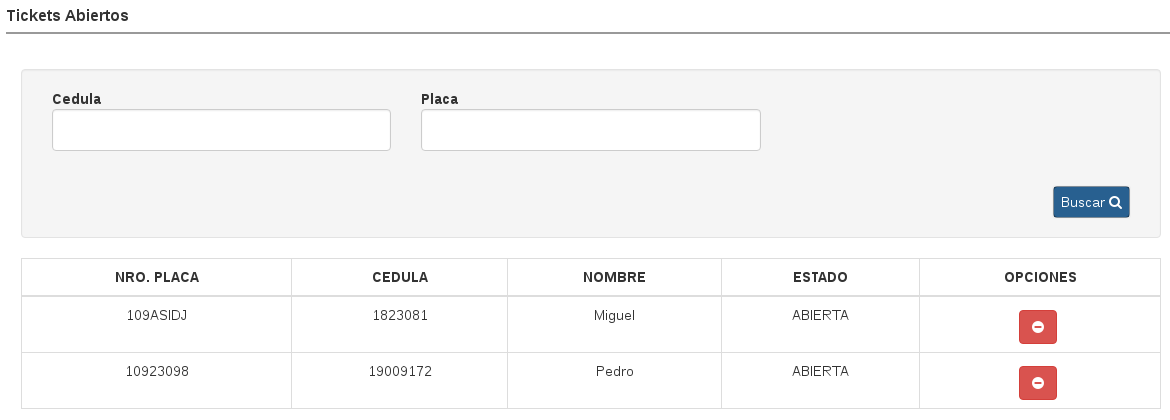
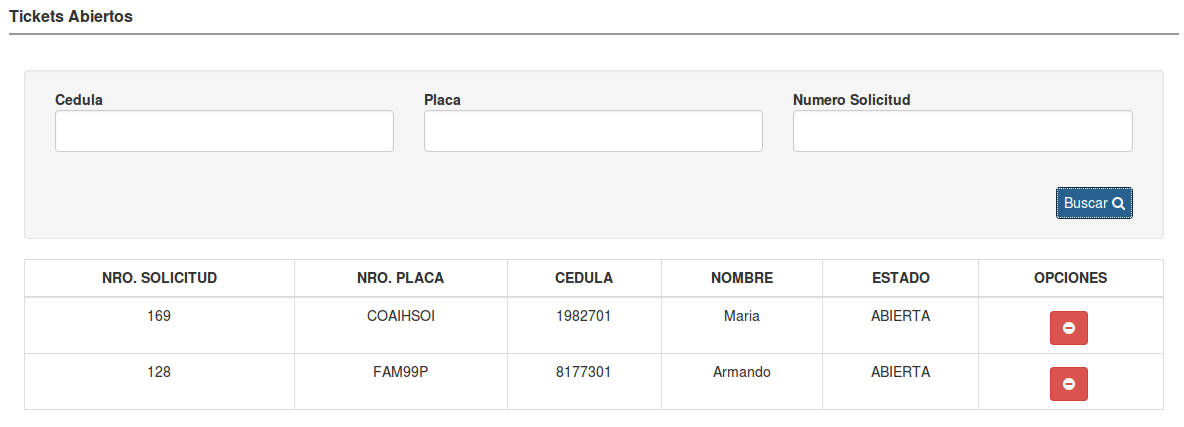
Avance casi listo

diff --git a/sections/marco_aplicativo.tex b/sections/marco_aplicativo.tex
@@ -1,8 +1,29 @@
 \chapter{Marco Aplicativo}
+\setlength{\parskip}{5mm}
+A continuación, para el siguiente capitulo se presenta una descripción general de la solución en conjunto con las respectivas tecnologías utilizadas para su elaboración. Además se detalla la metodología de desarrollo SCRUM que se aplico para la elaboración de este proyecto, así como los diferentes requerimientos, perfiles de usuarios que interactúan con el sistema, explicación de las interfaces de la aplicación y las pruebas realizadas que contribuyeron a un mejor desempeño y una mayor aceptación de la aplicación. 
 
+\setlength{\parskip}{0mm}
 
 \section{Descripción general de la solución} 
 \setlength{\parskip}{5mm}
+
+En el presente trabajo especial de grado se desarrolló un sistema con tecnologías web, en el cual los usuarios pueden gestionar las solicitudes de inspección, tanto generar las solicitudes, registrar los resultados de la inspección y convalidar las mismas. Logrando así una persistencia digital de las solicitudes para una mejor administración de la información.
+
+Para ello se propone el desarrollo de la siguiente arquitectura con las siguientes tecnologías:
+
+\begin{figure}[H]
+\begin{center}
+	\includegraphics[width=15cm,height=8cm]{img/con_tecnologia1.png}
+\end{center}
+\caption{Arquitectura Propuesta. Fuente: El Autor.}
+\label{fig:Con_Tec}
+\end{figure}
+
+Para la base de datos utilizaremos PostgreSQL, ya que es una de las bases de datos mas potentes de software libre, con un alto rendimiento, seguridad y a su vez estar disponible prácticamente para todas las versiones de los sistemas operativos Unix y también Windows. Su versatilidad y robustez la hace el candidato perfecto para el sistema que se busca implementar.
+
+Se propone utilizar el framework de Django para el desarrollo del sistema. Ya que siendo uno de los muchos frameworks que están establecidos sobre la base del patrón MVC en sus beneficios se encuentra la separación de responsabilidad y organización del código. Este framework incorpora un patrón llamado MTV (Modelo-Template-Vista), los templates son donde se implementan todas las interfaces de los usuarios, que serán desplegadas por las vistas en el lado del servidor y los mídeles corresponde a la base da datos donde persistirá la información. Además posee un sistema jerárquico de plantilla que proporciona la reutilización de código y la extensibilidad de las aplicaciones. Posee un buen soporte para PostgresSQL, la base de datos que se piensa utilizar para el sistema. 
+
+
 \setlength{\parskip}{0mm}
 
 \newpage
@@ -472,7 +493,7 @@ En esta interfaz el administrador puede cambiar tanto el nombre como el correo, 
 \label{fig:interfaz_crear_solicitud_inspeccion}
 \end{figure}
 
-En esta interfaz el usuario Taquilla puede crear una solicitud de inspección con los datos del cliente, en caso de que el cliente exista, se llenan automáticamente al incluir la cédula. En caso de que no este el Titular se incluyen también los datos de la persona que trajo el vehículo a inspección.
+En esta interfaz el usuario Taquilla puede crear una solicitud de inspección con los datos del cliente dando este el numero de solicitud de inspección, en caso de que el cliente exista, se llenan automáticamente al incluir la cédula. En caso de que no este el Titular se incluyen también los datos de la persona que trajo el vehículo a inspección.
 
 \newpage
 \textbf{-Modal crear solicitud de inspección }: La figura a continuación muestra el modal de confirmación para crear una solicitud de inspección.

diff --git a/sections/marco_conceptual.tex b/sections/marco_conceptual.tex
@@ -136,42 +136,69 @@ Desarrollado sobre Oracle Database, Oracle Content Database ha sido diseñada pa
 
 \newpage
 \subsection{Cuadro Comparativo SMBD}
-
 \begin{table}[H]	
 \begin{center}
-\begin{tabular}{ | m{4cm} | m{4cm}| m{4cm}| } 
+\begin{tabular}{ | m{3cm} | m{4.5cm}| m{4.5cm}| } 
  \hline
- PostgresSQL & MySQL & Oracle \\
+ SMDB & Ventajas & Desventajas \\
  \hline
- Hace mas sencillo el análisis de datos.
+ PostgresSQL 
  &
- Tiene una mayor velocidad al realizar operaciones.
- & 
- Es el mas usado a nivel mundial.\\
+ %ventajas
+ - Multiplataforma.
+ \newline
+ - Diseñado para ambientes de alto volumen.
+ \newline
+ - Herramientas gráficas de diseño y administración.
+ \newline
+ - Tiene mejor soporte que los proveedores comerciales.
+ \newline
+ - Licencia abierta.
+ &
+ %desvantajas \\
+-La sintaxis de algunos de sus comandos o sentencias no es nada intuitiva.
+\newline
+-Es más lento en inserciones y actualizaciones, ya que cuenta con cabeceras de intersección que no tienen otros SMBD.
+\newline
+-El soporte es en línea.
+\\
+  \hline
+ MySQL
+ &
+ %ventajas
+ - Tiene una mayor velocidad al realizar operaciones.
+  \newline
+ - Baja probabilidad de corromper datos.
+  \newline
+ - Característica única puede agrupar transacciones.
+  \newline
+ - Permite la gestión de diferentes usuarios y permisos.
+  \newline
+ - Es Licencia abierta.
+ &
+ %desvantajas
+ -Un gran porcentaje de las utilidades de MySQL no están documentadas.
+ \newline
+ -Poco intuitivo.
+ \\
  \hline
- Diseñado para ambientes de alto volumen.
- & 
- No necesita muchos requerimientos de sistema.
- & 
- Permite el uso de particiones.\\
- \hline
- Herramientas gráficas de diseño y administración.
- & 
- Característica única puede agrupar transacciones.
- & 
- Permite consultas en paralelo.\\
- \hline
- Tiene mejor soporte que los proveedores comerciales.
- & 
- Permite la gestión de diferentes usuarios y permisos.
- & 
- Las herramientas de configuración de Oracle son tal vez las mejores en el mercado.\\
- \hline
- Es gratuito.
- & 
- Es gratuito.
- & 
- Tiene un elevado precio.\\
+ Oracle
+ &
+ %ventajas
+ - Es considerado como uno de los sistemas gestores de bases de datos más completo.
+  \newline
+ - Permite el uso de particiones.
+  \newline
+ - Consultas en paralelo.
+  \newline
+ - Las herramientas de configuración de Oracle son tal vez las mejores en el mercado.
+ &
+ %desvantajas
+ 
+ - Un Oracle mal configurado puede ser desesperadamente lento.
+  \newline
+  - Es privativo, costos no muy asequibles.
+ \\
  \hline
  \end{tabular}
 \caption{Tabla comparativa de los Sistemas Manejadores de Base de Datos}
@@ -179,7 +206,7 @@ Desarrollado sobre Oracle Database, Oracle Content Database ha sido diseñada pa
 \end{center}
 \end{table}	
 
-
+\newpage
 %https://iessanvicente.com/colaboraciones/oracle.pdf
 
 %%%%%%%%%%%%%%%%%%%%%%%% MOVIL %%%%%%%%%%%%%%%%%%%%%%%%%%%%%%%
@@ -968,6 +995,8 @@ En resumen el perito esta encargado de realizar diferentes tipos de inspecciones
 \end{itemize}
 
 (\citet{peritoIVbib}, 2012)
+
+\newpage
 
 \subsubsection{Caso de Estudio}
 
